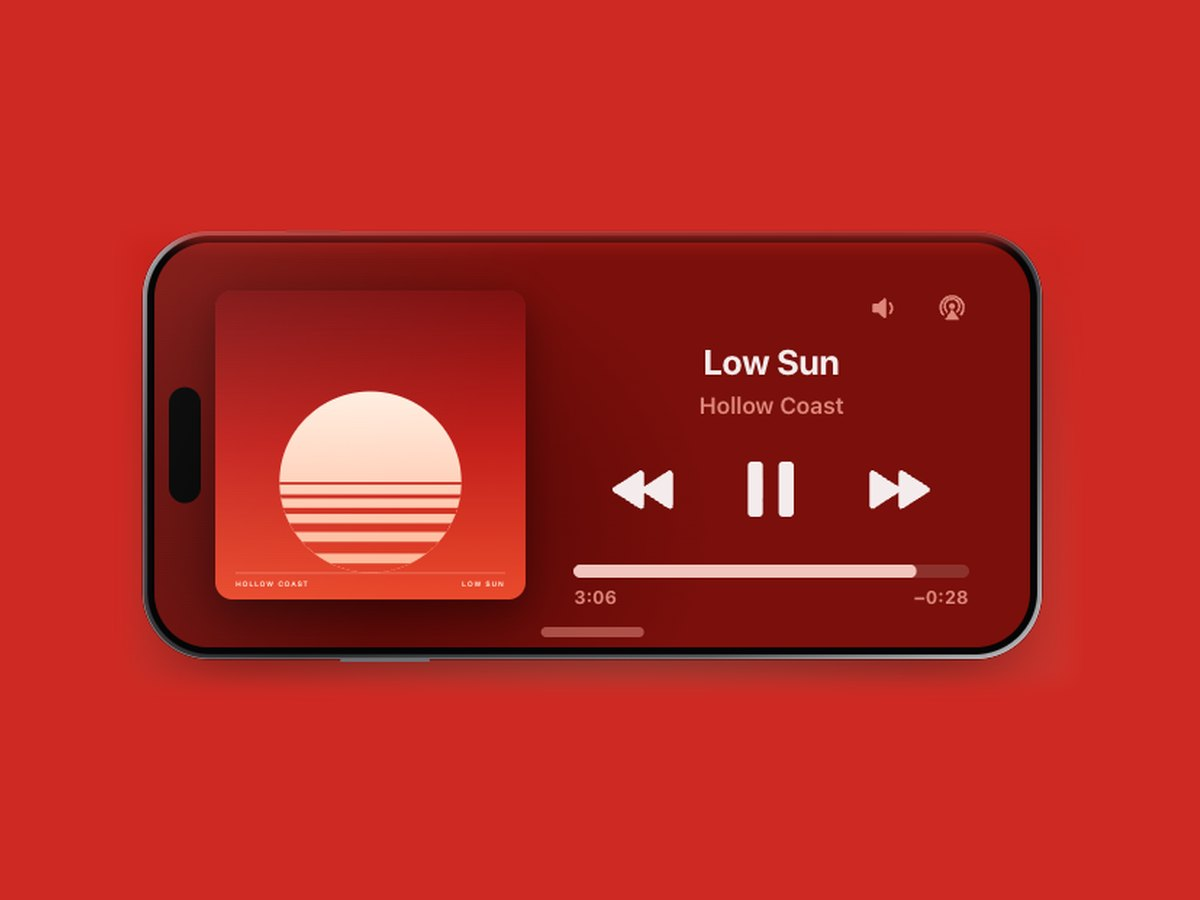
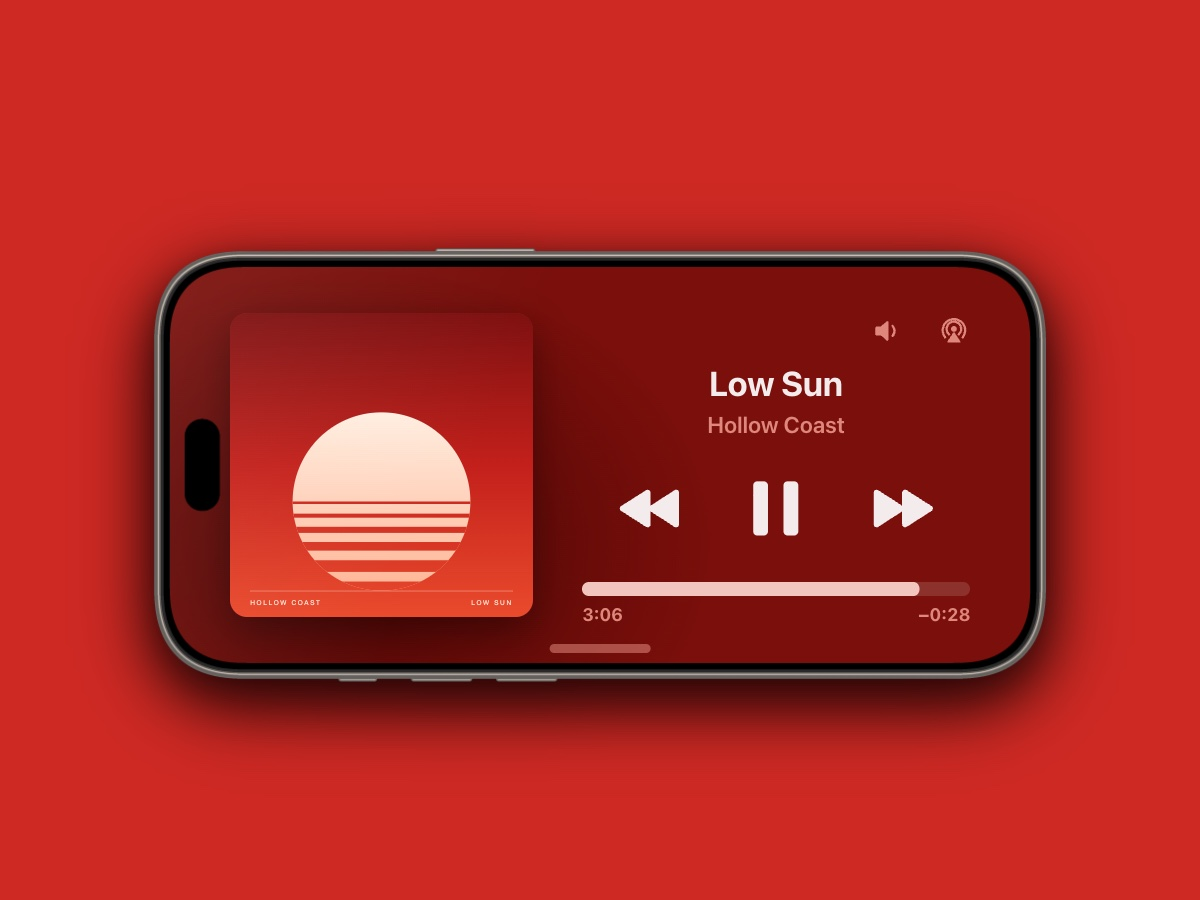
Home: new intro and About copy; the Second Chair card with the new iPhone
The card is rendered from second-chair/_docs/card.html (not published).

diff --git a/second-chair/_docs/card.html b/second-chair/_docs/card.html
@@ -1,0 +1,60 @@
+<!doctype html>
+<html lang="en-GB"><head><meta charset="utf-8">
+<title>Second Chair card</title>
+<!-- Renders assets/second-chair-card.jpg for the Made with Merritt home page (1200×900):
+     "/Applications/Google Chrome.app/Contents/MacOS/Google Chrome" --headless --hide-scrollbars --force-device-scale-factor=1 \
+       --window-size=1200,900 --screenshot=card.png http://localhost:4174/second-chair/_docs/card.html
+     then: sips -s format jpeg -s formatOptions 88 card.png --out ../../assets/second-chair-card.jpg -->
+<link rel="stylesheet" href="../assets/css/base.css">
+<link rel="stylesheet" href="../assets/css/home.css">
+<style>
+  html, body { margin: 0; width: 1200px; height: 900px; overflow: hidden; background: #ce2923; }
+  .card { position: relative; isolation: isolate; background: #ce2923; width: 1200px; height: 900px; display: grid; place-items: center; --stage: #ce2923; --wall-a: #4a0907; --wall-b: #b81c17; }
+  .card .hero-standby { position: relative; right: auto; bottom: auto; width: 900px; margin-top: 30px; }
+</style>
+</head><body>
+<svg width="0" height="0" style="position:absolute" aria-hidden="true">
+  <symbol id="i-play" viewBox="0 0 24 24"><path d="M6.6 4.4v15.2c0 .9 1 1.5 1.8 1l12-7.6c.7-.5.7-1.5 0-2L8.4 3.4c-.8-.5-1.8.1-1.8 1z"/></symbol>
+  <symbol id="i-pause" viewBox="0 0 24 24"><rect x="5" y="3.6" width="4.6" height="16.8" rx="1.3"/><rect x="14.4" y="3.6" width="4.6" height="16.8" rx="1.3"/></symbol>
+  <symbol id="i-next" viewBox="0 0 24 24"><path d="M1.6 6.5v11c0 .8.9 1.3 1.6.8L11.4 13v4.5c0 .8.9 1.3 1.6.8l8.6-5.5c.6-.4.6-1.3 0-1.6L13 5.7c-.7-.5-1.6 0-1.6.8V11L3.2 5.7c-.7-.5-1.6 0-1.6.8z"/></symbol>
+  <symbol id="i-prev" viewBox="0 0 24 24"><path d="M22.4 6.5v11c0 .8-.9 1.3-1.6.8L12.6 13v4.5c0 .8-.9 1.3-1.6.8l-8.6-5.5c-.6-.4-.6-1.3 0-1.6L11 5.7c.7-.5 1.6 0 1.6.8V11l8.2-5.3c.7-.5 1.6 0 1.6.8z"/></symbol>
+  <symbol id="i-note" viewBox="0 0 24 24"><path d="M12.6 3.2c0-.6.5-1 1.1-.9l.3.1c.4 1.9 1.6 3.1 3 4.2 1.5 1.2 2.6 2.6 2.4 4.9-.1 1-.5 2-1 2.8-.2.3-.6.1-.5-.2.3-.8.5-1.6.4-2.5-.2-1.9-1.9-3.2-4.1-3.9v9.5c0 2.3-2.1 4.1-4.7 4.1-1.9 0-3.1-1-3.1-2.4 0-2.1 2.3-3.8 5-3.8.5 0 1 .1 1.2.2z"/></symbol>
+  <symbol id="i-airplay" viewBox="0 0 24 24"><path d="M5 17H4a2 2 0 0 1-2-2V5a2 2 0 0 1 2-2h16a2 2 0 0 1 2 2v10a2 2 0 0 1-2 2h-1v-1.8h1c.1 0 .2-.1.2-.2V5c0-.1-.1-.2-.2-.2H4c-.1 0-.2.1-.2.2v10c0 .1.1.2.2.2h1z"/><path d="M12 13.2 18 21H6z"/></symbol>
+  <symbol id="i-vol-lo" viewBox="0 0 24 24"><path d="M4 9h3.6L12 5v14l-4.4-4H4z"/></symbol>
+  <symbol id="i-airplay-audio" viewBox="0 0 24 24"><g fill="none" stroke="currentColor" stroke-width="1.7" stroke-linecap="round"><path d="M5.5 17A8.5 8.5 0 1 1 18.5 17"/><path d="M8.5 14.7A5.5 5.5 0 1 1 15.5 14.7"/></g><circle cx="12" cy="10.5" r="2.2"/><path d="M12 13.6 16.4 20.2H7.6z" stroke="currentColor" stroke-width="1.2" stroke-linejoin="round"/></symbol>
+  <symbol id="i-vol-mid" viewBox="0 0 24 24"><path d="M3.5 8.6h3.2l4.4-3.9c.6-.5 1.4-.1 1.4.6v13.4c0 .7-.8 1.1-1.4.6l-4.4-3.9H3.5c-.6 0-1-.4-1-1V9.6c0-.6.4-1 1-1z"/><path d="M15.4 8.2a5.4 5.4 0 0 1 0 7.6" fill="none" stroke="currentColor" stroke-width="1.8" stroke-linecap="round"/></symbol>
+  <symbol id="i-vol-hi" viewBox="0 0 24 24"><path d="M2 9h3.6L10 5v14l-4.4-4H2z"/><path d="M13.6 8.4a5 5 0 0 1 0 7.2l-1.1-1.1a3.4 3.4 0 0 0 0-5zM16.4 5.6a9 9 0 0 1 0 12.8l-1.1-1.1a7.4 7.4 0 0 0 0-10.6z"/></symbol>
+  <symbol id="i-search" viewBox="0 0 24 24"><circle cx="10.5" cy="10.5" r="6.5" fill="none" stroke="currentColor" stroke-width="2.2"/><path d="m15.4 15.4 5.1 5.1" stroke="currentColor" stroke-width="2.2" stroke-linecap="round"/></symbol>
+  <symbol id="i-down" viewBox="0 0 24 24"><path d="M12 3.5v12.2m0 0 5-5m-5 5-5-5M4.5 20.5h15" fill="none" stroke="currentColor" stroke-width="2.2" stroke-linecap="round" stroke-linejoin="round"/></symbol>
+  <symbol id="i-laptop" viewBox="0 0 24 24"><path d="M4.5 5.5c0-.6.4-1 1-1h13c.6 0 1 .4 1 1v9.5h-15zM6 6v7.5h12V6zM2 16.2h20v.6c0 1-.8 1.7-1.7 1.7H3.7c-1 0-1.7-.8-1.7-1.7z"/></symbol>
+  <symbol id="i-iphone-arrow" viewBox="0 0 24 24"><path d="M5.6 2h4.8C11.8 2 13 3.2 13 4.6v14.8c0 1.4-1.2 2.6-2.6 2.6H5.6C4.2 22 3 20.8 3 19.4V4.6C3 3.2 4.2 2 5.6 2zm0 1.6c-.6 0-1 .4-1 1v14.8c0 .6.4 1 1 1h4.8c.6 0 1-.4 1-1V4.6c0-.6-.4-1-1-1z"/><path d="M15.4 12h6m0 0-2.7-2.7m2.7 2.7-2.7 2.7" fill="none" stroke="currentColor" stroke-width="1.8" stroke-linecap="round" stroke-linejoin="round"/></symbol>
+  <symbol id="i-iphone" viewBox="0 0 24 24"><path d="M8.6 2h6.8c1.4 0 2.4 1 2.4 2.4v15.2c0 1.4-1 2.4-2.4 2.4H8.6c-1.4 0-2.4-1-2.4-2.4V4.4C6.2 3 7.2 2 8.6 2zm0 1.6c-.5 0-.8.3-.8.8v15.2c0 .5.3.8.8.8h6.8c.5 0 .8-.3.8-.8V4.4c0-.5-.3-.8-.8-.8h-1.2c0 .5-.3.8-.8.8h-2.4c-.5 0-.8-.3-.8-.8z"/></symbol>
+</svg>
+<div class="card">
+<!-- The iPhone, in StandBy -->
+        <div class="phone phone--landscape hero-phone hero-standby" data-surface="iphone">
+          
+          <div class="phone-body"><div class="phone-bezel"><div class="screen">
+            <span class="island" aria-hidden="true"></span>
+            <!-- StandBy's Now Playing, laid out as iOS draws it: artwork left; title, artist, controls and scrubber centred on the right. -->
+            <div class="standby-ui">
+              <div class="wall" aria-hidden="true"></div>
+              <div class="sb-art" data-swap="spin"><img class="art" data-bind="art" src="../assets/art/low-sun.svg" alt="" width="300" height="300"></div>
+              <div class="sb-side">
+                <div class="sb-top" aria-hidden="true"><svg><use href="#i-vol-mid"/></svg><svg><use href="#i-airplay-audio"/></svg></div>
+                <div class="sb-meta"><b class="sb-title" data-bind="title">Low Sun</b><span class="sb-artist" data-bind="artist">Hollow Coast</span></div>
+                <div class="sb-controls">
+                  <button type="button" class="ios-btn" data-cmd="previous" aria-label="Previous, from the iPhone"><svg class="glyph-fill"><use href="#i-prev"/></svg></button>
+                  <button type="button" class="ios-btn pp" data-cmd="toggle" data-where="from the iPhone" aria-label="Pause from the iPhone"><svg class="i-pause glyph-fill"><use href="#i-pause"/></svg><svg class="i-play glyph-fill"><use href="#i-play"/></svg></button>
+                  <button type="button" class="ios-btn" data-cmd="next" aria-label="Next, from the iPhone"><svg class="glyph-fill"><use href="#i-next"/></svg></button>
+                </div>
+                <div class="sb-scrub" aria-hidden="true"><div class="ios-bar"><i data-bind="progress" style="--p:.87"></i></div><div class="sb-times"><span data-bind="elapsed">3:06</span><span data-bind="remaining">−0:28</span></div></div>
+              </div>
+              <span class="sb-home" aria-hidden="true"></span>
+            </div>
+          </div></div></div>
+        </div>
+
+      
+</div>
+</body></html>

diff --git a/index.html b/index.html
@@ -22,7 +22,7 @@
           <div class="mwm-studio-tagline">Design that earns its place</div>
         </div>
         <div class="mwm-intro-right">
-          <p class="mwm-intro-desc">The design explorations of Alistair Merritt. Intentional design, considered UX, and products that feel intuitive and well made.</p>
+          <p class="mwm-intro-desc">A collection of ideas, experiments and things I've made. Exploring the intersection of design and technology, with a focus on making everyday experiences better.</p>
           <a href="#about" class="mwm-more-link">More info</a>
         </div>
       </div>
@@ -92,7 +92,7 @@
           <div class="section-label">About</div>
           <p class="body-copy">I'm a Design Director by day, but I spend my spare time designing products, exploring technology, and tinkering with smart home systems such as Home Assistant.</p>
           <p class="body-copy">With a background in visual communication, I've always been interested in the intersection of user experience and form – not just how things look, but how they work, feel, and fit into everyday life.</p>
-          <p class="body-copy">Over the past year, that interest has grown beyond the screen and into physical products, exploring how design can make technology feel more intuitive and considered.</p>
+          <p class="body-copy">Lately, that curiosity has taken me further into building digital and physical products, especially exploring how design can make technology feel more intuitive and considered.</p>
           <p class="body-copy">Made with Merritt is a place to share those ideas, experiments, and projects as they take shape. Thanks for being a part of the journey.</p>
           <button class="btn-get-in-touch" data-contact>Get in touch</button>
         </div>

diff --git a/content-made-with-merritt.md b/content-made-with-merritt.md
@@ -2,7 +2,7 @@
 
 **Tagline:** Design that earns its place
 
-The design explorations of Alistair Merritt. Intentional design, considered UX, and products that feel intuitive and well made.
+A collection of ideas, experiments and things I've made. Exploring the intersection of design and technology, with a focus on making everyday experiences better.
 
 [More info](#about)
 
@@ -34,9 +34,9 @@ I'm a Design Director by day, but I spend my spare time designing products, expl
 
 With a background in visual communication, I've always been interested in the intersection of user experience and form – not just how things look, but how they work, feel, and fit into everyday life.
 
-In the past year, that interest has grown beyond the screen and into physical products – and a broader exploration of form complementing function.
+Lately, that curiosity has taken me further into building digital and physical products, especially exploring how design can make technology feel more intuitive and considered.
 
-Made with Merritt is a place to share those ideas, experiments, and projects as they take shape. Thanks for being a part of my journey.
+Made with Merritt is a place to share those ideas, experiments, and projects as they take shape. Thanks for being a part of the journey.
 
 [Get in touch]
 
